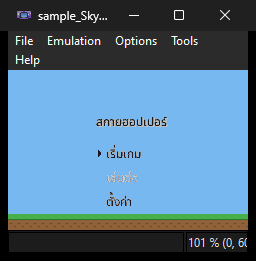
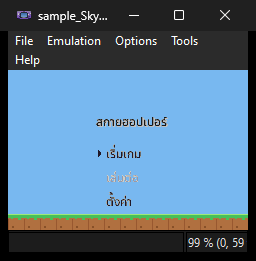
EMU evidence made again with the redrawn Sky Hopper fixture: the Forest_01 slice and every link in mGBA, every scene and the demo title in VBA-M (P4.X1, P5.X1, P15.11)
infra: emulator evidence for the phase exits

Changed region(s): [[0.0312, 0.7969, 0.9688, 0.9502]]

diff --git a/docs/evidence/emu/README.md b/docs/evidence/emu/README.md
@@ -9,3 +9,6 @@ VBA-M 2.2.0 (`*-vbam.png`, the whole emulator window).
 | `skyhopper-forest01-slice-30-mgba.png`, `-60-` | P4.X1: the Forest_01 slice 30 and 60 frames into play: player, slimes, coins, HUD | `SkyHopperPlayTests.ForestSliceRunsAt60FpsWithPlayerSlimesCoinsAndHud` (writes `build/emu-evidence`) |
 | `skyhopper-<n>-<scene>-transition-mgba.png`, `skyhopper-<n>-<scene>-mgba.png` | P5.X1: each scene reached through its World Map link, 4 frames in (transition running) and 10 frames in: Forest_02 (on touch, Only if, fade), Summit (door, slide), Forest_02 back (door, fade), Forest_01 (respawn, cut), Cave_01 (door, fade), Forest_01 from the cave | `SkyHopperPlayTests.AllFiveScenesLoadThroughTheirLinks` |
 | `skyhopper-start-<scene>-vbam.png` | P4.X1, P5.X1: each of the 5 scenes of the fixture loads in VBA-M (one build per start scene, boot splash off) | `agb sample skyhopper`, Project Settings start scene, `agb build`, VBA-M |
+
+The Sky Hopper pictures (`skyhopper-*` and `sample_Sky_Hopper_demo-*`) were made again on 2026-10-31 at `07000d0`, after the fixture art was redrawn
+from the Figma art (`67446e6`).
